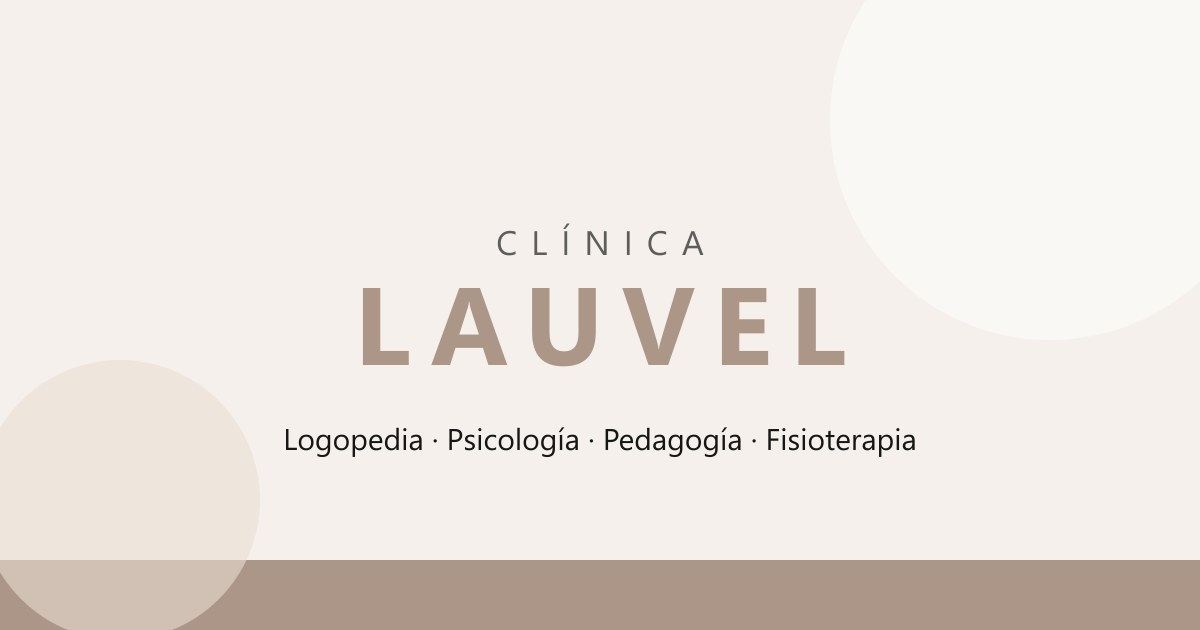
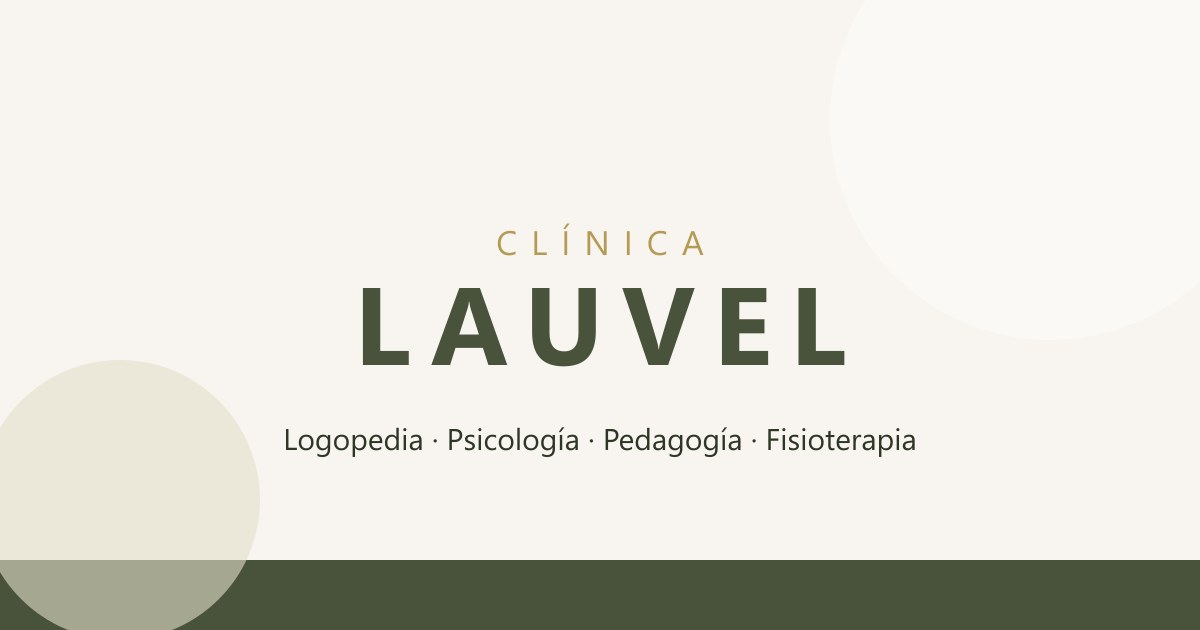
feat: aplicar paleta corporativa de tarjeta de visita (verde oliva + dorado)

diff --git a/src/styles/global.css b/src/styles/global.css
@@ -1,13 +1,14 @@
 @import "tailwindcss";
 
 @theme {
-  --color-accent: #ac9687;
-  --color-accent-hover: #8a7b6e;
-  --color-ink: #161615;
+  --color-accent: #49523b;
+  --color-accent-hover: #3a442e;
+  --color-gold: #b59a55;
+  --color-ink: #2e3626;
   --color-body: #5d5d5c;
-  --color-soft: #f5f0eb;
-  --color-softer: #faf8f5;
-  --color-card-number: #eaddd3;
+  --color-soft: #f8f5f0;
+  --color-softer: #fbf9f5;
+  --color-card-number: #e5dfc9;
 
   --font-display: "Baloo 2", "Quicksand", system-ui, sans-serif;
   --font-sans: "DM Sans", system-ui, -apple-system, "Segoe UI", sans-serif;
@@ -64,7 +65,7 @@
   }
 
   .eyebrow {
-    @apply font-sans text-sm font-medium tracking-[0.12em] text-accent uppercase;
+    @apply font-sans text-sm font-medium tracking-[0.12em] text-gold uppercase;
   }
 
   .hero-overlay {

diff --git a/docs/specs/especificaciones-finales-lauvel.md b/docs/specs/especificaciones-finales-lauvel.md
@@ -51,14 +51,14 @@ El resto de la estructura (hero, bloques dos columnas, tarjetas numeradas con ac
 
 Se hereda por completo del documento de especificaciones de referencia:
 
-- **Paleta**: acento `#AC9687`; negro suave `#161615` (titulares, footer, desplegables); gris `#5D5D5C` (cuerpo); blanco `#FFFFFF`; fondos alternos beige pálido `#F5F0EB` y `#FAF8F5`; overlay de heroes `rgba(0,0,0,0.35–0.45)`.
+- **Paleta**: acento verde oliva `#49523B` (botones, enlaces, iconos, títulos de tarjetas de tratamiento, subrayado activo); dorado `#B59A55` (eyebrows y detalles decorativos); verde muy oscuro `#2E3626` (titulares, footer, desplegables); gris `#5D5D5C` (cuerpo); blanco `#FFFFFF`; fondos alternos crema `#F8F5F0` y `#FBF9F5`; overlay de heroes `rgba(0,0,0,0.35–0.45)`.
 - **Tipografía**: display redondeada para titulares (Aloevera Display; sustitutas libres: Quicksand Bold, Comfortaa, Baloo 2) + DM Sans 400/500 para cuerpo, eyebrow labels y botones.
-- **Botones**: primario rosa con texto blanco (radio ~4–6 px) y botón circular con borde rosa y flecha `→` (enlaces y acordeones).
-- **Eyebrow labels**: mayúsculas, rosa, letter-spacing amplio, sobre cada H2.
+- **Botones**: primario verde oliva con texto blanco (radio ~4–6 px) y botón circular con borde verde oliva y flecha `→` (enlaces y acordeones).
+- **Eyebrow labels**: mayúsculas, dorado, letter-spacing amplio, sobre cada H2.
 - **Componentes reutilizables**: hero de página, tarjeta de servicio, tarjeta numerada con acordeón "Qué tratamos", lista numerada horizontal, tarjeta de persona, carrusel de testimonios, bloque dos columnas texto+imagen, sección formulario, botones flotantes (WhatsApp y accesibilidad), banner de cookies.
 - **Responsive y animaciones**: según §13 del documento de referencia (grids 3→2→1 columnas, animaciones fade/slide al hacer scroll, menú hamburguesa en móvil).
 
-> Nota de marca: el color corporativo definitivo de LAUVEL ha sido confirmado como `#AC9687`. El logo debe mantenerse con la identidad recibida del cliente. Ver §15.
+> Nota de marca: la paleta corporativa definitiva de LAUVEL se extrae de la tarjeta de visita: verde oliva `#49523B`, dorado `#B59A55` y crema `#F8F5F0`. El logo debe mantenerse con la identidad recibida del cliente. Ver §15.
 
 ---
 
@@ -82,7 +82,7 @@ Se hereda por completo del documento de especificaciones de referencia:
 
 **Menú principal (cabecera)**: `Home` · `Quiénes somos` · **[LOGO LAUVEL centrado]** · `Servicios ▾` · `Contacto`
 
-**Desplegable "Servicios"** (fondo `#161615`, texto blanco, 4 enlaces):
+**Desplegable "Servicios"** (fondo `#2E3626`, texto blanco, 4 enlaces):
 1. Logopedia → `/logopedia/`
 2. Pedagogía → `/pedagogia/`
 3. Psicología → `/psicologia/`
@@ -97,10 +97,10 @@ Se hereda por completo del documento de especificaciones de referencia:
 Idénticos a la referencia (§4 del documento Monro), con estos contenidos propios:
 
 ### 4.1. Cabecera
-- Barra transparente sobre el hero, menú blanco, item activo con subrayado rosa, logo LAUVEL centrado, desplegable de Servicios (4 items), sticky al scroll, hamburguesa en móvil.
+- Barra transparente sobre el hero, menú blanco, item activo con subrayado verde oliva, logo LAUVEL centrado, desplegable de Servicios (4 items), sticky al scroll, hamburguesa en móvil.
 
 ### 4.2. Footer
-Fondo `#161615`, columna centrada:
+Fondo `#2E3626`, columna centrada:
 1. Logotipo LAUVEL grande (versión clara sobre negro).
 2. Selector de idioma (Español/English) — opcional, según cliente (ver §15).
 3. Menú secundario: `Home` · `Quiénes somos` · `Servicios ▾` · `Contacto`.
@@ -113,11 +113,11 @@ Aparece al final de **Home, Quiénes somos y las 4 páginas de servicios**. Estr
 - Columna izquierda sobre foto con overlay: eyebrow `¿NECESITAS MÁS INFORMACIÓN?`, H2 **"Estamos aquí para ayudarte"**, párrafos:
   - "Si quieres resolver dudas, solicitar una valoración o conocer mejor cómo trabajamos, nuestro equipo te atenderá con total cercanía y profesionalidad."
   - "Déjanos tus datos y nos pondremos en contacto contigo lo antes posible."
-  - Botón rosa: **"Primera consulta gratuita"** → `/contacto/` *(confirmar con el cliente si la primera consulta/valoración es gratuita; si no, cambiar el CTA a "Pide tu valoración" o "Contacta" — ver §15)*.
+  - Botón verde oliva: **"Primera consulta gratuita"** → `/contacto/` *(confirmar con el cliente si la primera consulta/valoración es gratuita; si no, cambiar el CTA a "Pide tu valoración" o "Contacta" — ver §15)*.
 - Columna derecha: tarjeta blanca con formulario: `RELLENA EL FORMULARIO` + Nombre completo + Correo electrónico + Teléfono + Mensaje + checkbox "He leído y acepto la **Política de privacidad**" + botón `Enviar` + desplegable legal "Información sobre protección de datos" (Responsable: [titular de LAUVEL], Finalidad, Legitimación, Destinatarios, Derechos).
 
 ### 4.4. Elementos flotantes
-- Botón **WhatsApp** (inferior derecha, círculo rosa) → chat con el número de la clínica.
+- Botón **WhatsApp** (inferior derecha, círculo verde oliva) → chat con el número de la clínica.
 - Botón **accesibilidad** (borde izquierdo centrado).
 - **Banner de cookies** con Aceptar/Rechazar/Ajustes + enlace a política de cookies.
 
@@ -128,13 +128,13 @@ Aparece al final de **Home, Quiénes somos y las 4 páginas de servicios**. Estr
 ### Sección 1 — Hero
 - Imagen a ancho completo (equipo o consulta de LAUVEL), overlay oscuro.
 - H1 blanco: **"Centro multidisciplinar de logopedia, psicología, pedagogía y fisioterapia"** *(añadir ciudad cuando se confirme: "…en [Ciudad]")*.
-- Botón rosa: **"Primera consulta gratuita"** → `/contacto/`
+- Botón verde oliva: **"Primera consulta gratuita"** → `/contacto/`
 
 ### Sección 2 — Servicios destacados
 - Eyebrow centrado: `NUESTROS SERVICIOS`
 - H2 centrado: **"Atención integral para todas las etapas de la vida"**
 - Párrafo centrado introductorio: "En LAUVEL ofrecemos una atención individualizada para bebés, niños, adolescentes y adultos. Somos un centro multidisciplinar donde la logopedia, la psicología, la pedagogía y la fisioterapia trabajan de forma coordinada, siempre desde un enfoque basado en la evidencia científica."
-- **6 tarjetas de servicio** (grid 3 columnas × 2 filas; componente "tarjeta de servicio": icono lineal rosa, título, descripción, botón circular con flecha):
+- **6 tarjetas de servicio** (grid 3 columnas × 2 filas; componente "tarjeta de servicio": icono lineal verde oliva, título, descripción, botón circular con flecha):
   1. **Terapia de Motricidad Orofacial** — "Una de nuestras áreas de especialización: tratamos las alteraciones de la musculatura orofacial para mejorar funciones como respirar, masticar, deglutir y hablar." → `/logopedia/` *(ancla a su bloque)*
   2. **Logopedia infantil y de adultos** — "Prevención, evaluación e intervención en las alteraciones del lenguaje, el habla, la comunicación, la voz y la deglución, para todas las edades." → `/logopedia/`
   3. **Psicología infantil, adolescentes y adultos** — "Un espacio de confianza para comprender lo que ocurre y desarrollar herramientas para afrontar el día a día." → `/psicologia/`
@@ -143,7 +143,7 @@ Aparece al final de **Home, Quiénes somos y las 4 páginas de servicios**. Estr
   6. **Atención integral infantil** — "Trabajo coordinado entre logopedia, psicología, pedagogía y fisioterapia para ofrecer a cada niño una atención completa." → `/quienes-somos/` *(o a la sección "Cómo trabajamos")*
 
 ### Sección 3 — Tu clínica de referencia (dos columnas)
-- **Izquierda**: eyebrow `LOGOPEDIA · PSICOLOGÍA · PEDAGOGÍA · FISIOTERAPIA` → H2 **"Un centro multidisciplinar, un único objetivo: tu bienestar"** → párrafo: "En LAUVEL creemos en una atención integral y personalizada. La coordinación entre nuestros profesionales y la colaboración con las familias, centros educativos y otros especialistas nos permite ofrecer una atención completa, cercana y de calidad, acompañando a cada persona durante todo el proceso." → botón rosa **"Sobre nosotros"** → `/quienes-somos/` → imagen pequeña debajo.
+- **Izquierda**: eyebrow `LOGOPEDIA · PSICOLOGÍA · PEDAGOGÍA · FISIOTERAPIA` → H2 **"Un centro multidisciplinar, un único objetivo: tu bienestar"** → párrafo: "En LAUVEL creemos en una atención integral y personalizada. La coordinación entre nuestros profesionales y la colaboración con las familias, centros educativos y otros especialistas nos permite ofrecer una atención completa, cercana y de calidad, acompañando a cada persona durante todo el proceso." → botón verde oliva **"Sobre nosotros"** → `/quienes-somos/` → imagen pequeña debajo.
 - **Derecha**: imagen grande vertical (sesión con paciente).
 
 ### Sección 4 — Cómo trabajamos (lista numerada)
@@ -161,7 +161,7 @@ Adapta el componente "Qué ofrecemos / lista numerada" de la referencia:
 - Eyebrow centrado: `NUESTRO EQUIPO`
 - H2: **"Especialistas en logopedia, psicología, pedagogía y fisioterapia"**
 - Párrafo: "En LAUVEL contamos con un equipo multidisciplinar especializado y en constante formación. Nuestra forma de trabajar se basa en la evidencia científica, la personalización de cada intervención y un trato cercano que genera confianza desde el primer día."
-- Fotos de equipo en fila (nº según plantilla real) + botón rosa **"Conócenos"** → `/quienes-somos/`
+- Fotos de equipo en fila (nº según plantilla real) + botón verde oliva **"Conócenos"** → `/quienes-somos/`
 
 ### Sección 6 — Testimonios
 - Eyebrow: `TESTIMONIOS` + H2 **"Lo que nuestros pacientes destacan"** + carrusel de reseñas de Google (mismo componente).
@@ -169,7 +169,7 @@ Adapta el componente "Qué ofrecemos / lista numerada" de la referencia:
 ### Sección 7 — CTA Becas NEAE (bloque destacado)
 **Este bloque sustituye al de "Adeslas/Beca NEAE" de la referencia y tiene máxima prioridad visual** (petición expresa del cliente):
 - Dos columnas.
-- **Izquierda**: H2 **"Centro de intervención para alumnado con Beca NEAE"** → párrafo: "Realizamos tratamientos para el alumnado beneficiario de las **Becas de Necesidades Específicas de Apoyo Educativo (NEAE)** del Ministerio de Educación." → párrafo: "Te asesoramos sobre la ayuda y diseñamos el plan de intervención que exige la convocatoria." → negrita: "¡Consúltanos sin compromiso!" → botón rosa **"Contacta"** → `/contacto/`
+- **Izquierda**: H2 **"Centro de intervención para alumnado con Beca NEAE"** → párrafo: "Realizamos tratamientos para el alumnado beneficiario de las **Becas de Necesidades Específicas de Apoyo Educativo (NEAE)** del Ministerio de Educación." → párrafo: "Te asesoramos sobre la ayuda y diseñamos el plan de intervención que exige la convocatoria." → negrita: "¡Consúltanos sin compromiso!" → botón verde oliva **"Contacta"** → `/contacto/`
 - **Derecha**: imagen (material didáctico, aula o sesión infantil).
 
 ### Sección 8 — Formulario compartido (§4.3)
@@ -406,7 +406,7 @@ Cuatro páginas de texto legal con cabecera y footer globales: **Aviso legal**, 
 | 2 | **Dirección, teléfono, email, WhatsApp** | Contacto, footer, botón flotante |
 | 3 | **Redes sociales** (URLs) | Footer y página de contacto |
 | 4 | **Equipo**: nombres, roles, fotos y bios | Home §5 y Quiénes somos §4 |
-| 5 | **Logo e identidad de LAUVEL** (logo ya recibido; acento confirmado `#AC9687`) | Mantener logo del cliente; acento ya aplicado en web |
+| 5 | **Logo e identidad de LAUVEL** (logo ya recibido; paleta corporativa extraída de la tarjeta: verde oliva `#49523B`, dorado `#B59A55`, crema `#F8F5F0`) | Mantener logo del cliente; paleta ya aplicada en web |
 | 6 | **¿Primera consulta/valoración gratuita?** | Texto del CTA principal |
 | 7 | **Titular RGPD** (nombre del responsable) | Formularios y política de privacidad |
 | 8 | **¿Selector de idioma?** | Footer |

diff --git a/AGENTS.md b/AGENTS.md
@@ -39,12 +39,15 @@ npm run check     # astro check (tipos)
 
 | Token | Valor | Uso |
 |---|---|---|
-| `accent` | `#AC9687` | botones, enlaces, eyebrows, iconos, títulos de tarjetas de tratamiento, subrayado activo |
-| `ink` | `#161615` | titulares, footer, desplegables |
+| `accent` | `#49523B` | botones, enlaces, iconos, títulos de tarjetas de tratamiento, subrayado activo |
+| `accent-hover` | `#3A442E` | hover de botones/enlaces con fondo de acento |
+| `gold` | `#B59A55` | eyebrows, detalles decorativos y hover en superficies oscuras |
+| `ink` | `#2E3626` | titulares, footer, desplegables |
 | `body` | `#5D5D5C` | texto de cuerpo |
 | `bg` | `#FFFFFF` | fondo base |
-| `soft` | `#FDF2F7` | tarjetas de tratamiento, secciones alternas |
-| `softer` | `#FEFAFC` | variante de fondo |
+| `soft` | `#F8F5F0` | tarjetas de tratamiento, secciones alternas |
+| `softer` | `#FBF9F5` | variante de fondo |
+| `card-number` | `#E5DFC9` | números decorativos grandes de tarjetas |
 | overlay heroes | `rgba(0,0,0,.35–.45)` | legibilidad de H1 blanco |
 
 - H1 hero ~64–72px (móvil 36–40), H2 ~42–48px (móvil 28–32), títulos tarjeta 20–24px, eyebrow ~14px mayúsculas tracking amplio, cuerpo 16–17px / line-height 1.6
